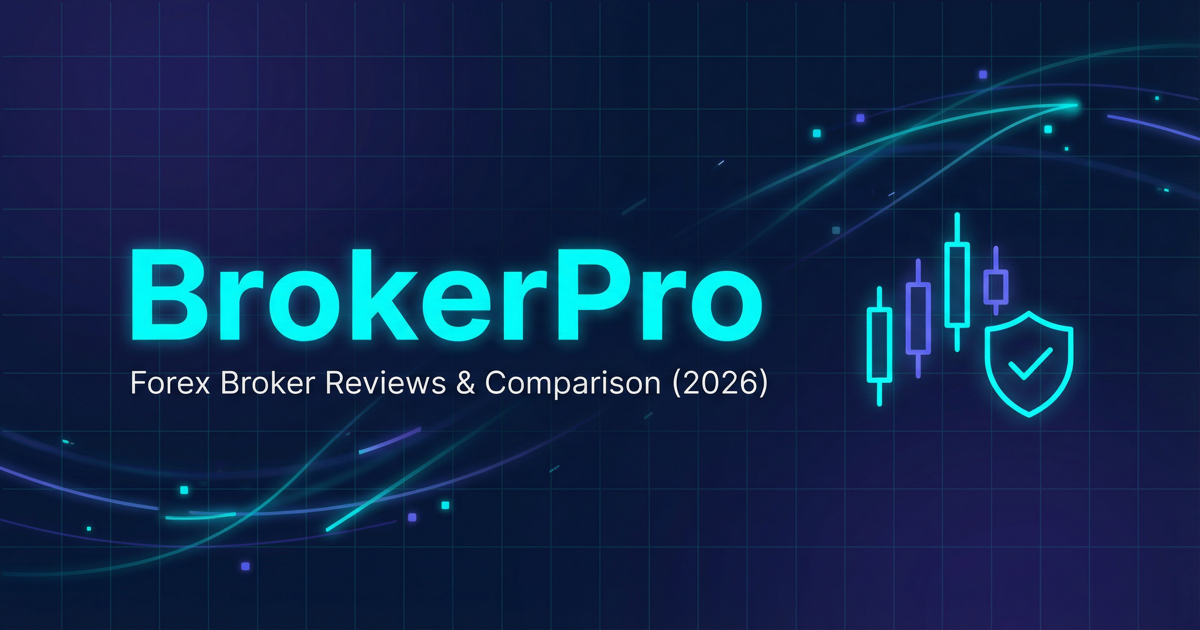
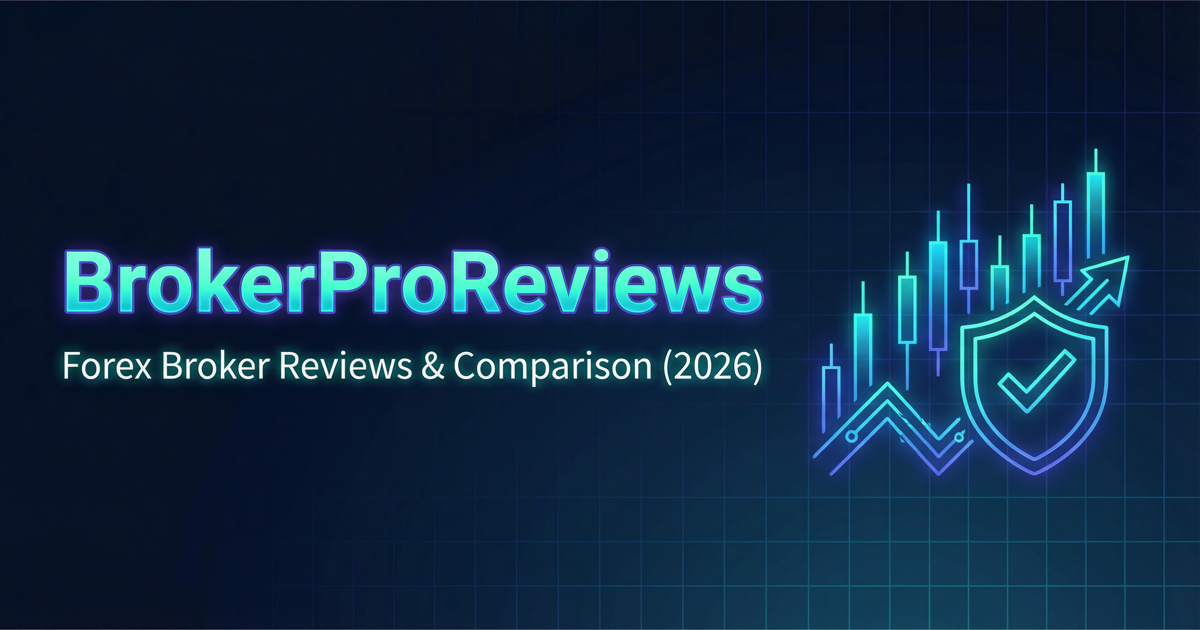
Rename site1 brand to BrokerProReviews
Update site1 pages and guides to use BrokerProReviews in UI, meta tags, and JSON-LD. Refresh OG image to match new branding.

diff --git a/site1-dark-gradient/index.html b/site1-dark-gradient/index.html
@@ -4,7 +4,7 @@
     <meta charset="UTF-8">
     <meta name="viewport" content="width=device-width, initial-scale=1.0">
     <!-- Primary SEO -->
-    <title>BrokerPro — Forex Broker Reviews &amp; Side-by-Side Comparison (2026)</title>
+    <title>BrokerProReviews — Forex Broker Reviews &amp; Comparison (2026)</title>
     <meta name="description" content="Independent forex broker reviews, verified trader feedback, and side-by-side comparisons. Compare spreads, leverage, minimum deposits, and regulation to choose the right broker for your strategy.">
     <link rel="canonical" href="https://brokerpro.pages.dev/">
 
@@ -25,25 +25,25 @@
 
     <!-- Open Graph (social + AI previews) -->
     <meta property="og:type" content="website">
-    <meta property="og:title" content="BrokerPro — Trusted Forex Broker Reviews">
+    <meta property="og:title" content="BrokerProReviews — Trusted Forex Broker Reviews">
     <meta property="og:description" content="Compare brokers by spreads, leverage, minimum deposit, and regulation. Verified trader feedback + methodology you can trust.">
     <meta property="og:url" content="https://brokerpro.pages.dev/">
-    <meta property="og:site_name" content="BrokerPro">
+    <meta property="og:site_name" content="BrokerProReviews">
     <!-- Replace with a real absolute image URL you control -->
     <meta property="og:image" content="https://brokerpro.pages.dev/og/brokerpro.png">
-    <meta property="og:image:alt" content="BrokerPro forex broker reviews and comparison">
+    <meta property="og:image:alt" content="BrokerProReviews forex broker reviews and comparison">
     <meta property="og:locale" content="en_US">
     <meta property="og:image:width" content="1200">
     <meta property="og:image:height" content="630">
 
     <!-- Twitter -->
     <meta name="twitter:card" content="summary_large_image">
-    <meta name="twitter:title" content="BrokerPro — Forex Broker Reviews &amp; Comparison">
+    <meta name="twitter:title" content="BrokerProReviews — Forex Broker Reviews &amp; Comparison">
     <meta name="twitter:description" content="Independent reviews and side-by-side broker comparison: spreads, leverage, deposits, and regulation.">
     <meta name="twitter:image" content="https://brokerpro.pages.dev/og/brokerpro.png">
 
     <!-- Optional: Brand/Knowledge Panel hint -->
-    <meta name="application-name" content="BrokerPro">
+    <meta name="application-name" content="BrokerProReviews">
     <link rel="stylesheet" href="styles.css">
     <link rel="preconnect" href="https://fonts.googleapis.com">
     <link rel="preconnect" href="https://fonts.gstatic.com" crossorigin>
@@ -56,7 +56,7 @@
                 <div class="nav-content">
                     <div class="logo">
                         <span class="logo-icon">📊</span>
-                        <span class="logo-text">BrokerPro</span>
+                        <span class="logo-text">BrokerProReviews</span>
                     </div>
                     <ul class="nav-menu">
                         <li><a href="#reviews" data-en="Reviews" data-es="Reseñas">Reviews</a></li>
@@ -79,8 +79,8 @@
         <section class="hero">
             <div class="container">
                 <div class="hero-content">
-                    <h1 class="hero-title" data-en="BrokerPro: Trusted Forex Broker Reviews" data-es="BrokerPro: Reseñas Confiables de Brokers de Forex">
-                        BrokerPro: Trusted Forex Broker Reviews
+                    <h1 class="hero-title" data-en="BrokerProReviews: Trusted Forex Broker Reviews" data-es="BrokerProReviews: Reseñas Confiables de Brokers de Forex">
+                        BrokerProReviews: Trusted Forex Broker Reviews
                     </h1>
                     <p class="hero-subtitle" data-en="Independent ratings, side-by-side comparisons, and guidance to choose the right broker for your strategy." data-es="Calificaciones independientes, comparaciones lado a lado y orientación para elegir el broker adecuado para tu estrategia.">
                         Independent ratings, side-by-side comparisons, and guidance to choose the right broker for your strategy.
@@ -104,11 +104,11 @@
         <section id="reviews" class="featured-brokers">
             <div class="container">
                 <h2 class="section-title" data-en="Broker Reviews" data-es="Reseñas de Brokers">Broker Reviews</h2>
-                <p class="section-intro" data-en="BrokerPro curates verified trader feedback and compliance checks. Explore trusted brokers with clear scores and highlights." data-es="BrokerPro recopila comentarios verificados de traders y revisiones de cumplimiento. Explora brokers confiables con puntajes claros y puntos destacados.">
-                    BrokerPro curates verified trader feedback and compliance checks. Explore trusted brokers with clear scores and highlights.
+                <p class="section-intro" data-en="BrokerProReviews curates verified trader feedback and compliance checks. Explore trusted brokers with clear scores and highlights." data-es="BrokerProReviews recopila comentarios verificados de traders y revisiones de cumplimiento. Explora brokers confiables con puntajes claros y puntos destacados.">
+                    BrokerProReviews curates verified trader feedback and compliance checks. Explore trusted brokers with clear scores and highlights.
                 </p>
 
-                <h3 class="section-subheading" data-en="BrokerPro Top Picks" data-es="Selecciones Destacadas de BrokerPro">BrokerPro Top Picks</h3>
+                <h3 class="section-subheading" data-en="BrokerProReviews Top Picks" data-es="Selecciones Destacadas de BrokerProReviews">BrokerProReviews Top Picks</h3>
                 <div class="brokers-grid">
                     <div class="broker-card" data-broker-id="libertex">
                         <div class="broker-header">
@@ -1027,8 +1027,8 @@
             <div class="container">
                 <h2 class="section-title" data-en="Our Story" data-es="Nuestra Historia">Our Story</h2>
                 <div>
-                    <p class="section-body" data-en="BrokerPro was founded to provide transparent, unbiased broker reviews and help traders make informed decisions. We are committed to delivering accurate information and expert analysis." data-es="BrokerPro fue fundado para ofrecer reseñas de brokers transparentes e imparciales y ayudar a los traders a tomar decisiones informadas. Estamos comprometidos a entregar información precisa y análisis experto.">
-                        BrokerPro was founded to provide transparent, unbiased broker reviews and help traders make informed decisions. We are committed to delivering accurate information and expert analysis.
+                    <p class="section-body" data-en="BrokerProReviews was founded to provide transparent, unbiased broker reviews and help traders make informed decisions. We are committed to delivering accurate information and expert analysis." data-es="BrokerProReviews fue fundado para ofrecer reseñas de brokers transparentes e imparciales y ayudar a los traders a tomar decisiones informadas. Estamos comprometidos a entregar información precisa y análisis experto.">
+                        BrokerProReviews was founded to provide transparent, unbiased broker reviews and help traders make informed decisions. We are committed to delivering accurate information and expert analysis.
                     </p>
                     <div class="card-panel mt-2">
                         <div class="card-header-flex">
@@ -1244,7 +1244,7 @@
                 </div>
             </div>
             <div class="footer-bottom">
-                <p>&copy; 2025 BrokerPro. All rights reserved.</p>
+                <p>&copy; 2025 BrokerProReviews. All rights reserved.</p>
             </div>
         </div>
     </footer>
@@ -1256,7 +1256,7 @@
         {
           "@type": "Organization",
           "@id": "https://brokerpro.pages.dev/#org",
-          "name": "BrokerPro",
+          "name": "BrokerProReviews",
           "url": "https://brokerpro.pages.dev/",
           "description": "Independent forex broker reviews, comparisons, and trading education.",
           "logo": {
@@ -1268,7 +1268,7 @@
           "@type": "WebSite",
           "@id": "https://brokerpro.pages.dev/#website",
           "url": "https://brokerpro.pages.dev/",
-          "name": "BrokerPro",
+          "name": "BrokerProReviews",
           "publisher": { "@id": "https://brokerpro.pages.dev/#org" },
           "inLanguage": "en"
         },
@@ -1276,7 +1276,7 @@
           "@type": "WebPage",
           "@id": "https://brokerpro.pages.dev/#webpage",
           "url": "https://brokerpro.pages.dev/",
-          "name": "BrokerPro — Forex Broker Reviews & Side-by-Side Comparison (2026)",
+          "name": "BrokerProReviews — Forex Broker Reviews & Side-by-Side Comparison (2026)",
           "isPartOf": { "@id": "https://brokerpro.pages.dev/#website" },
           "about": [
             { "@type": "Thing", "name": "Forex brokers" },

diff --git a/site1-dark-gradient/guides/getting-started.html b/site1-dark-gradient/guides/getting-started.html
@@ -3,7 +3,7 @@
 <head>
     <meta charset="UTF-8">
     <meta name="viewport" content="width=device-width, initial-scale=1.0">
-    <title>Getting Started with Forex Trading | BrokerPro Guides</title>
+    <title>Getting Started with Forex Trading | BrokerProReviews Guides</title>
     <meta name="description" content="A practical beginner guide to forex: how the market works, key terms, placing your first trade, and avoiding common mistakes.">
     <link rel="stylesheet" href="../styles.css">
     <link rel="preconnect" href="https://fonts.googleapis.com">
@@ -15,9 +15,9 @@
         <nav class="nav guide-nav">
             <div class="container">
                 <div class="nav-content">
-                    <a class="logo" href="../index.html" aria-label="BrokerPro home">
+                    <a class="logo" href="../index.html" aria-label="BrokerProReviews home">
                         <span class="logo-icon">📊</span>
-                        <span class="logo-text">BrokerPro</span>
+                        <span class="logo-text">BrokerProReviews</span>
                     </a>
                     <div class="nav-actions">
                         <a class="guide-back link-cta" href="../index.html#guides" data-en="← Back to Guides" data-es="← Volver a Guías">← Back to Guides</a>
@@ -123,7 +123,7 @@
     <footer class="footer">
         <div class="container">
             <div class="footer-bottom">
-                <p>&copy; 2025 BrokerPro. All rights reserved.</p>
+                <p>&copy; 2025 BrokerProReviews. All rights reserved.</p>
             </div>
         </div>
     </footer>

diff --git a/site1-dark-gradient/guides/technical-analysis.html b/site1-dark-gradient/guides/technical-analysis.html
@@ -3,7 +3,7 @@
 <head>
     <meta charset="UTF-8">
     <meta name="viewport" content="width=device-width, initial-scale=1.0">
-    <title>Technical Analysis Basics | BrokerPro Guides</title>
+    <title>Technical Analysis Basics | BrokerProReviews Guides</title>
     <meta name="description" content="Technical analysis basics: trends, support/resistance, candlesticks, and simple indicators to build a repeatable trading plan.">
     <link rel="stylesheet" href="../styles.css">
     <link rel="preconnect" href="https://fonts.googleapis.com">
@@ -15,9 +15,9 @@
         <nav class="nav guide-nav">
             <div class="container">
                 <div class="nav-content">
-                    <a class="logo" href="../index.html" aria-label="BrokerPro home">
+                    <a class="logo" href="../index.html" aria-label="BrokerProReviews home">
                         <span class="logo-icon">📊</span>
-                        <span class="logo-text">BrokerPro</span>
+                        <span class="logo-text">BrokerProReviews</span>
                     </a>
                     <div class="nav-actions">
                         <a class="guide-back link-cta" href="../index.html#guides" data-en="← Back to Guides" data-es="← Volver a Guías">← Back to Guides</a>
@@ -107,7 +107,7 @@
     <footer class="footer">
         <div class="container">
             <div class="footer-bottom">
-                <p>&copy; 2025 BrokerPro. All rights reserved.</p>
+                <p>&copy; 2025 BrokerProReviews. All rights reserved.</p>
             </div>
         </div>
     </footer>

diff --git a/site1-dark-gradient/guides/advanced-course.html b/site1-dark-gradient/guides/advanced-course.html
@@ -3,7 +3,7 @@
 <head>
     <meta charset="UTF-8">
     <meta name="viewport" content="width=device-width, initial-scale=1.0">
-    <title>Advanced Forex Course | BrokerPro Guides</title>
+    <title>Advanced Forex Course | BrokerProReviews Guides</title>
     <meta name="description" content="Advanced forex course covering portfolio risk, execution quality, system testing, and long-term performance review.">
     <link rel="stylesheet" href="../styles.css">
     <link rel="preconnect" href="https://fonts.googleapis.com">
@@ -15,9 +15,9 @@
         <nav class="nav guide-nav">
             <div class="container">
                 <div class="nav-content">
-                    <a class="logo" href="../index.html" aria-label="BrokerPro home">
+                    <a class="logo" href="../index.html" aria-label="BrokerProReviews home">
                         <span class="logo-icon">📊</span>
-                        <span class="logo-text">BrokerPro</span>
+                        <span class="logo-text">BrokerProReviews</span>
                     </a>
                     <div class="nav-actions">
                         <a class="guide-back link-cta" href="../index.html#education" data-en="← Back to Education" data-es="← Volver a Educación">← Back to Education</a>
@@ -111,7 +111,7 @@
     <footer class="footer">
         <div class="container">
             <div class="footer-bottom">
-                <p>&copy; 2025 BrokerPro. All rights reserved.</p>
+                <p>&copy; 2025 BrokerProReviews. All rights reserved.</p>
             </div>
         </div>
     </footer>

diff --git a/site1-dark-gradient/guides/intermediate-course.html b/site1-dark-gradient/guides/intermediate-course.html
@@ -3,7 +3,7 @@
 <head>
     <meta charset="UTF-8">
     <meta name="viewport" content="width=device-width, initial-scale=1.0">
-    <title>Intermediate Forex Course | BrokerPro Guides</title>
+    <title>Intermediate Forex Course | BrokerProReviews Guides</title>
     <meta name="description" content="Intermediate forex course focused on market structure, trade management, and building a repeatable process.">
     <link rel="stylesheet" href="../styles.css">
     <link rel="preconnect" href="https://fonts.googleapis.com">
@@ -15,9 +15,9 @@
         <nav class="nav guide-nav">
             <div class="container">
                 <div class="nav-content">
-                    <a class="logo" href="../index.html" aria-label="BrokerPro home">
+                    <a class="logo" href="../index.html" aria-label="BrokerProReviews home">
                         <span class="logo-icon">📊</span>
-                        <span class="logo-text">BrokerPro</span>
+                        <span class="logo-text">BrokerProReviews</span>
                     </a>
                     <div class="nav-actions">
                         <a class="guide-back link-cta" href="../index.html#education" data-en="← Back to Education" data-es="← Volver a Educación">← Back to Education</a>
@@ -111,7 +111,7 @@
     <footer class="footer">
         <div class="container">
             <div class="footer-bottom">
-                <p>&copy; 2025 BrokerPro. All rights reserved.</p>
+                <p>&copy; 2025 BrokerProReviews. All rights reserved.</p>
             </div>
         </div>
     </footer>

diff --git a/site1-dark-gradient/guides/risk-management.html b/site1-dark-gradient/guides/risk-management.html
@@ -3,7 +3,7 @@
 <head>
     <meta charset="UTF-8">
     <meta name="viewport" content="width=device-width, initial-scale=1.0">
-    <title>Risk Management Strategies | BrokerPro Guides</title>
+    <title>Risk Management Strategies | BrokerProReviews Guides</title>
     <meta name="description" content="Risk management for forex traders: position sizing, stop-loss placement, risk-to-reward, and rules to protect capital.">
     <link rel="stylesheet" href="../styles.css">
     <link rel="preconnect" href="https://fonts.googleapis.com">
@@ -15,9 +15,9 @@
         <nav class="nav guide-nav">
             <div class="container">
                 <div class="nav-content">
-                    <a class="logo" href="../index.html" aria-label="BrokerPro home">
+                    <a class="logo" href="../index.html" aria-label="BrokerProReviews home">
                         <span class="logo-icon">📊</span>
-                        <span class="logo-text">BrokerPro</span>
+                        <span class="logo-text">BrokerProReviews</span>
                     </a>
                     <div class="nav-actions">
                         <a class="guide-back link-cta" href="../index.html#guides" data-en="← Back to Guides" data-es="← Volver a Guías">← Back to Guides</a>
@@ -105,7 +105,7 @@
     <footer class="footer">
         <div class="container">
             <div class="footer-bottom">
-                <p>&copy; 2025 BrokerPro. All rights reserved.</p>
+                <p>&copy; 2025 BrokerProReviews. All rights reserved.</p>
             </div>
         </div>
     </footer>

diff --git a/site1-dark-gradient/guides/beginner-course.html b/site1-dark-gradient/guides/beginner-course.html
@@ -3,7 +3,7 @@
 <head>
     <meta charset="UTF-8">
     <meta name="viewport" content="width=device-width, initial-scale=1.0">
-    <title>Beginner Forex Course | BrokerPro Guides</title>
+    <title>Beginner Forex Course | BrokerProReviews Guides</title>
     <meta name="description" content="A structured beginner forex course covering core terms, order types, risk basics, and a simple first trading plan.">
     <link rel="stylesheet" href="../styles.css">
     <link rel="preconnect" href="https://fonts.googleapis.com">
@@ -15,9 +15,9 @@
         <nav class="nav guide-nav">
             <div class="container">
                 <div class="nav-content">
-                    <a class="logo" href="../index.html" aria-label="BrokerPro home">
+                    <a class="logo" href="../index.html" aria-label="BrokerProReviews home">
                         <span class="logo-icon">📊</span>
-                        <span class="logo-text">BrokerPro</span>
+                        <span class="logo-text">BrokerProReviews</span>
                     </a>
                     <div class="nav-actions">
                         <a class="guide-back link-cta" href="../index.html#education" data-en="← Back to Education" data-es="← Volver a Educación">← Back to Education</a>
@@ -117,7 +117,7 @@
     <footer class="footer">
         <div class="container">
             <div class="footer-bottom">
-                <p>&copy; 2025 BrokerPro. All rights reserved.</p>
+                <p>&copy; 2025 BrokerProReviews. All rights reserved.</p>
             </div>
         </div>
     </footer>

diff --git a/site1-dark-gradient/guides/choosing-broker.html b/site1-dark-gradient/guides/choosing-broker.html
@@ -3,7 +3,7 @@
 <head>
     <meta charset="UTF-8">
     <meta name="viewport" content="width=device-width, initial-scale=1.0">
-    <title>Choosing the Right Broker | BrokerPro Guides</title>
+    <title>Choosing the Right Broker | BrokerProReviews Guides</title>
     <meta name="description" content="A step-by-step checklist to choose a forex broker: regulation, costs, execution, platforms, withdrawals, and red flags.">
     <link rel="stylesheet" href="../styles.css">
     <link rel="preconnect" href="https://fonts.googleapis.com">
@@ -15,9 +15,9 @@
         <nav class="nav guide-nav">
             <div class="container">
                 <div class="nav-content">
-                    <a class="logo" href="../index.html" aria-label="BrokerPro home">
+                    <a class="logo" href="../index.html" aria-label="BrokerProReviews home">
                         <span class="logo-icon">📊</span>
-                        <span class="logo-text">BrokerPro</span>
+                        <span class="logo-text">BrokerProReviews</span>
                     </a>
                     <div class="nav-actions">
                         <a class="guide-back link-cta" href="../index.html#guides" data-en="← Back to Guides" data-es="← Volver a Guías">← Back to Guides</a>
@@ -109,7 +109,7 @@
     <footer class="footer">
         <div class="container">
             <div class="footer-bottom">
-                <p>&copy; 2025 BrokerPro. All rights reserved.</p>
+                <p>&copy; 2025 BrokerProReviews. All rights reserved.</p>
             </div>
         </div>
     </footer>

diff --git a/site1-dark-gradient/guides/leverage.html b/site1-dark-gradient/guides/leverage.html
@@ -3,7 +3,7 @@
 <head>
     <meta charset="UTF-8">
     <meta name="viewport" content="width=device-width, initial-scale=1.0">
-    <title>Understanding Leverage | BrokerPro Guides</title>
+    <title>Understanding Leverage | BrokerProReviews Guides</title>
     <meta name="description" content="Learn what leverage and margin mean in forex, how margin calls happen, and how to use leverage responsibly.">
     <link rel="stylesheet" href="../styles.css">
     <link rel="preconnect" href="https://fonts.googleapis.com">
@@ -15,9 +15,9 @@
         <nav class="nav guide-nav">
             <div class="container">
                 <div class="nav-content">
-                    <a class="logo" href="../index.html" aria-label="BrokerPro home">
+                    <a class="logo" href="../index.html" aria-label="BrokerProReviews home">
                         <span class="logo-icon">📊</span>
-                        <span class="logo-text">BrokerPro</span>
+                        <span class="logo-text">BrokerProReviews</span>
                     </a>
                     <div class="nav-actions">
                         <a class="guide-back link-cta" href="../index.html#guides" data-en="← Back to Guides" data-es="← Volver a Guías">← Back to Guides</a>
@@ -94,7 +94,7 @@
     <footer class="footer">
         <div class="container">
             <div class="footer-bottom">
-                <p>&copy; 2025 BrokerPro. All rights reserved.</p>
+                <p>&copy; 2025 BrokerProReviews. All rights reserved.</p>
             </div>
         </div>
     </footer>

diff --git a/site1-dark-gradient/guides/fundamental-analysis.html b/site1-dark-gradient/guides/fundamental-analysis.html
@@ -3,7 +3,7 @@
 <head>
     <meta charset="UTF-8">
     <meta name="viewport" content="width=device-width, initial-scale=1.0">
-    <title>Fundamental Analysis | BrokerPro Guides</title>
+    <title>Fundamental Analysis | BrokerProReviews Guides</title>
     <meta name="description" content="Fundamental analysis for forex: key economic indicators, central banks, and how news impacts currency pairs.">
     <link rel="stylesheet" href="../styles.css">
     <link rel="preconnect" href="https://fonts.googleapis.com">
@@ -15,9 +15,9 @@
         <nav class="nav guide-nav">
             <div class="container">
                 <div class="nav-content">
-                    <a class="logo" href="../index.html" aria-label="BrokerPro home">
+                    <a class="logo" href="../index.html" aria-label="BrokerProReviews home">
                         <span class="logo-icon">📊</span>
-                        <span class="logo-text">BrokerPro</span>
+                        <span class="logo-text">BrokerProReviews</span>
                     </a>
                     <div class="nav-actions">
                         <a class="guide-back link-cta" href="../index.html#guides" data-en="← Back to Guides" data-es="← Volver a Guías">← Back to Guides</a>
@@ -107,7 +107,7 @@
     <footer class="footer">
         <div class="container">
             <div class="footer-bottom">
-                <p>&copy; 2025 BrokerPro. All rights reserved.</p>
+                <p>&copy; 2025 BrokerProReviews. All rights reserved.</p>
             </div>
         </div>
     </footer>
